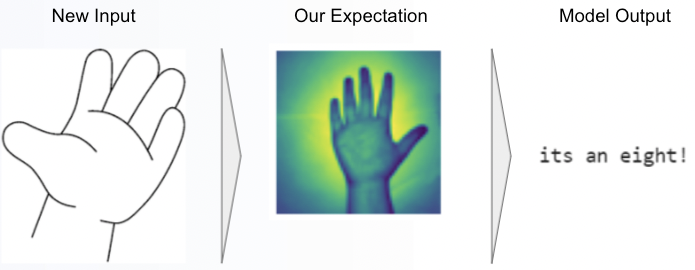
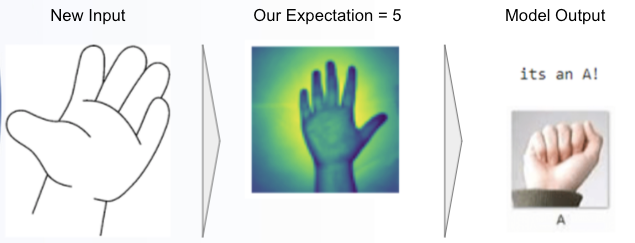
Added by Pamela

diff --git a/README.md b/README.md
@@ -63,44 +63,49 @@ Finally, we used the same structure and compile as Digits model.
 ### Model Validation:
 After 150 epochs, validation accuracy at 97.6%+ and validation loss at 24.6%.
 
-![accloss2.png](Images/accloss2.png)
+![accloss3.png](Images/accloss3.png)
 
 ### Model Consion Matrix:
 
-![CM1.png](Images/CM1.png)
+![CM3.png](Images/CM3.png)
 
-## Model Testing with Additional Images:
+## Testing Our Model with Additional Images:
 
 ### Image # 1
 
-We have run our model giving it a new input/image to expect the selected image an output, the our model provided...
+We ran our model by providing it a new input/image and expected a particular output; our model provided...
 
 ![image1.png](Images/image1.png)
 
 ### Image # 2
 
-We have run our model giving it a new input to expect the selected image as output, the our model provided...
+We ran our model by providing it a new input/image and expected a particular output; our model provided...
 
 ![image2.png](Images/image2.png)
 
 ### Image # 3
 
-We have run our model giving it a new input to expect the selected image as output, the our model provided...
+We ran our model by providing it a new input/image and expected a particular output; our model provided...
 
 ![image3.png](Images/image3.png)
 
 ### Image # 4
 
-We have run our model giving it a new input to expect the selected image as output, the our model provided...
+We ran our model by providing it a new input/image and expected a particular output; our model provided...
 
 ![image4.png](Images/image4.png)
 
+### Image # 5
+
+We ran our model by providing it a new input/image and expected a particular output; our model provided...
+
+![image5.png](Images/image5.png)
 
 ## Learnings:
 
-- Accuracy of data - labelling / resolution of data - integrity of data
-- Significant difference in model accuracy output between running on own computer vs running on Google Colab.
-- Colab run models may not be compatible to your computer (not backward version compatible).
-- Adjusting of final layer output classes.
-- Diagonally stack two data frames to create one data frame without losing any data.
-- Early stopping of epochs
+- Integrity of data - encountered problems with labelling / resolution of data and resulting model output
+- ignificant difference in model accuracy output between running on our own computer vs running on Google Colab.
+- Colab run models may not be compatible to your computer. Also encountered issues with saving datasets and GPU usage. 
+- Reconsider flip and rotate image augmentation, these may have confused the model and created some erroneous classifications.
+- Adjustment of epochs when running the model.
+
